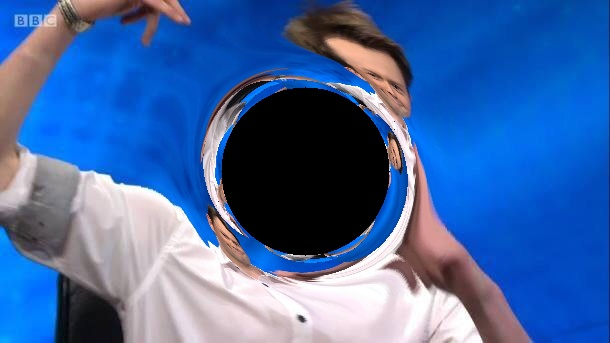
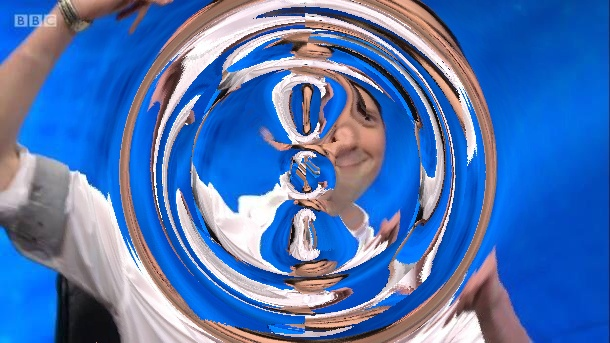
couple minor changes

diff --git a/lensface.py b/lensface.py
@@ -40,12 +40,12 @@ def make_gauss(centre, amp, sig, shapdim):
 
     iter = 0
     radius = 0
-    # while (iter < sidelenx) :
-    #     if (gaussblob[hy][hx+iter] < 0.01*gaussblob[hy][hx]) :
-    #         radius = iter
-    #         break
-    #     else :
-    #         iter += 1
+    while (iter < sidelenx) :
+        if (gaussblob[hy][hx+iter] < 0.2*gaussblob[hy][hx]) :
+            radius = iter
+            break
+        else :
+            iter += 1
 
     return -1.0*gaussblob, int(radius)
 
